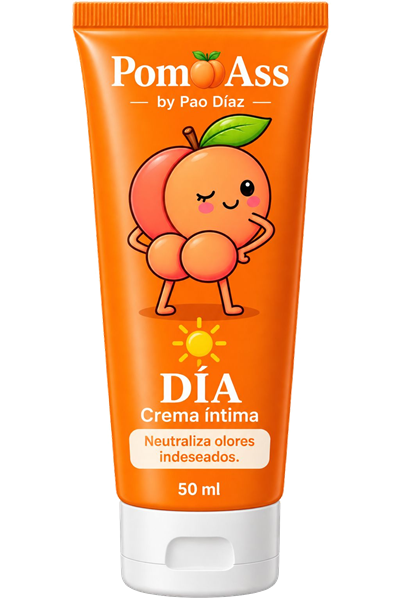
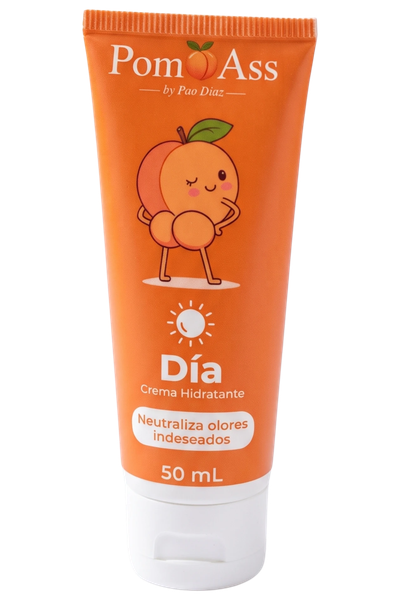
feat(landing): foto real del tarro de Día
Mismo trabajo que el de Noche: reemplaza la ilustración por la foto del
producto terminado que pasó Pao, recortada ajustada al contenido real y
encajada sin deformar en el lienzo de 400x600 que ya usaban los demás
envases. El fondo venía transparente de antes, sin retocar.

Cotas sellado/tapa remedidas a mano sobre la foto nueva (la tapa es blanca
aquí, pero se midió igual en vez de confiar en la detección automática,
por consistencia con el tarro de Noche).

Con este ya son los dos tarros reales en todo el sitio: la escena 3D de
la apertura, «La rutina» y el combo — verificados en el navegador, sin
solaparse ni dejar huecos. 196 tests y el build pasan.

diff --git a/frontend/src/site.js b/frontend/src/site.js
@@ -173,7 +173,9 @@ export const PRODUCTOS = {
     icono: 'sun',
     color: '#F26B0F',
     momento: 1,
-    envase: { imagen: '/images/tubo_dia.png', sellado: 30, tapa: 508 },
+    // Cotas remedidas a mano sobre la foto real del producto (Pao la pasó
+    // el 2 de noviembre), igual que se hizo con la de Noche.
+    envase: { imagen: '/images/tubo_dia.png', sellado: 32, tapa: 486 },
   },
   noche: {
     id: 'noche',
